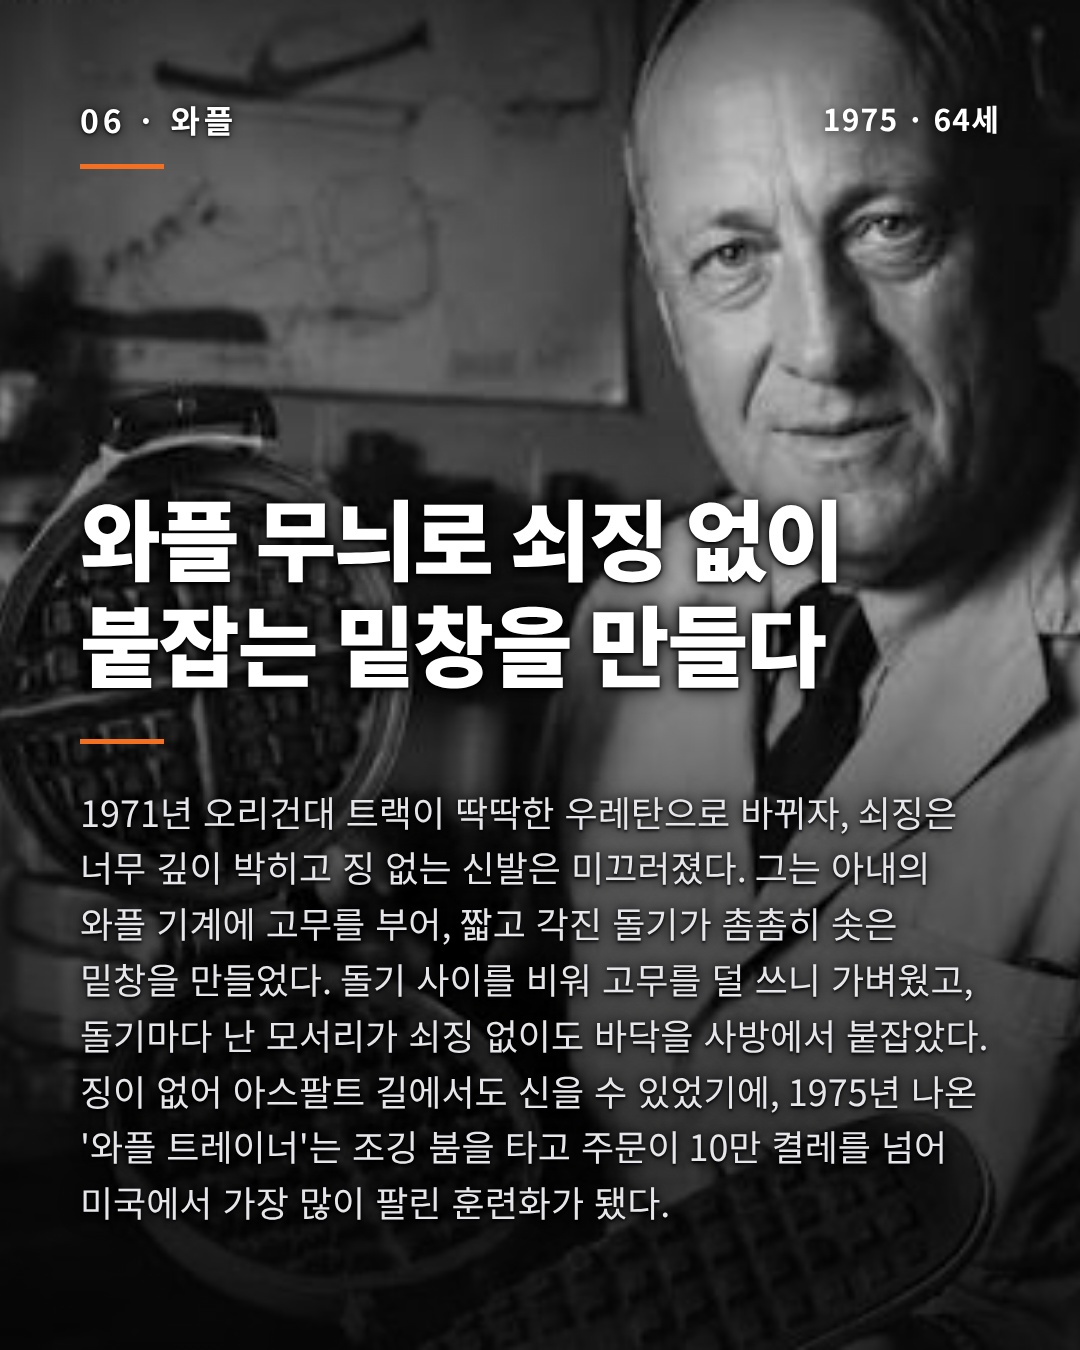
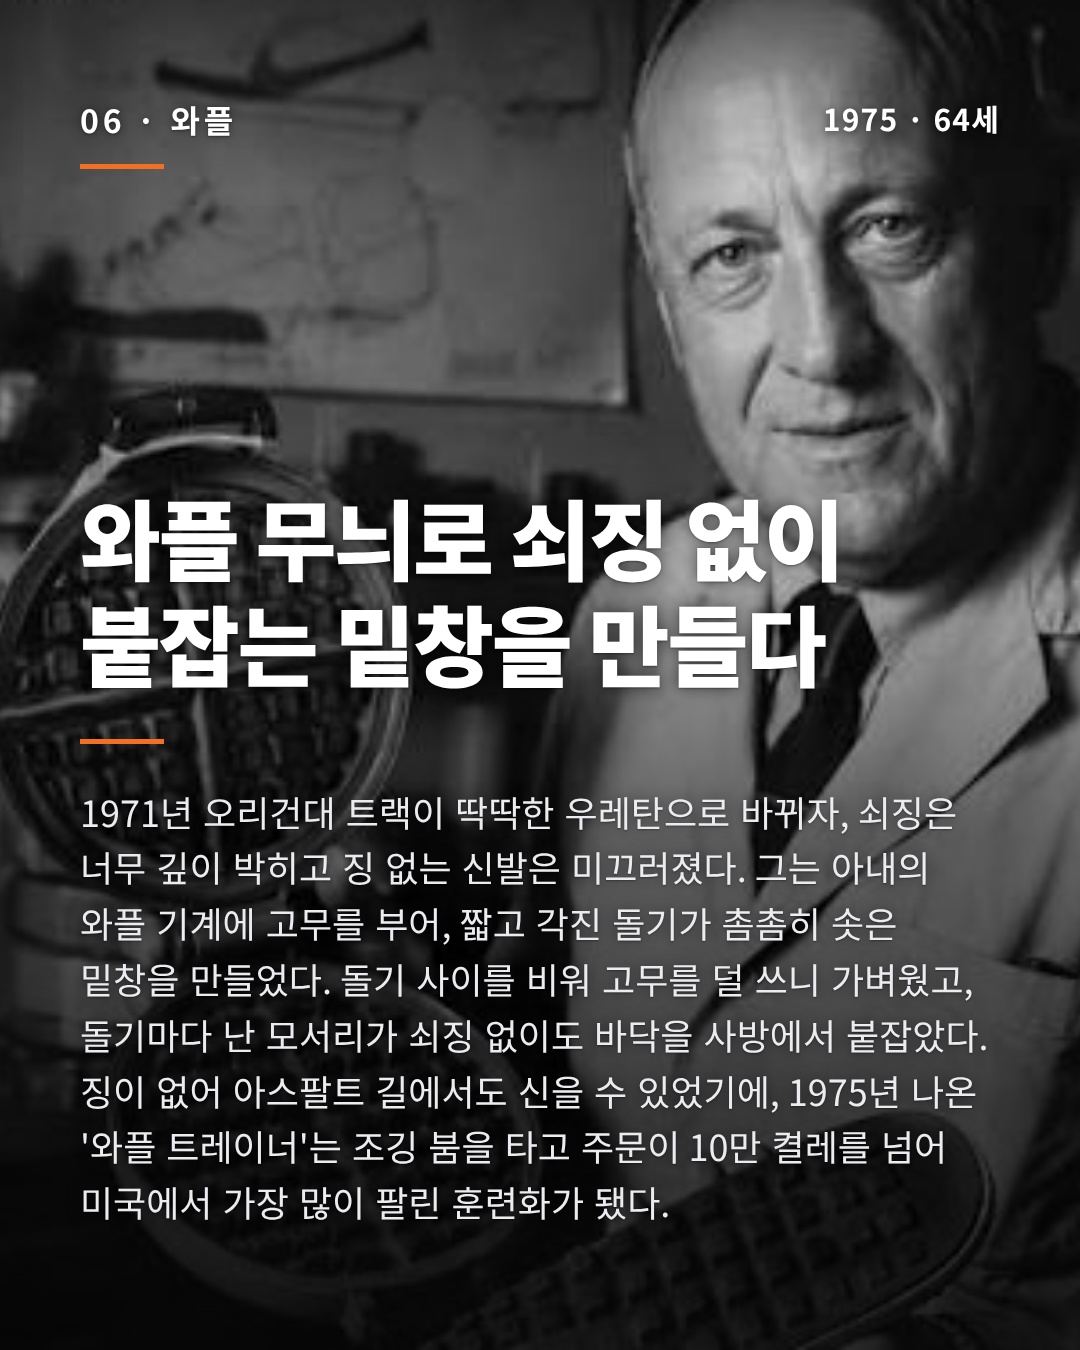
글자 그림자 얇게, 본문·보조 글자 밝기 통일, #05 재렌더
Claude-Session: https://claude.ai/code/session_0174UmVuwJmyLhAWFRzq7SfG

diff --git a/render.py b/render.py
@@ -21,8 +21,8 @@ html,body{width:1080px;height:1350px;background:#000;color:#fff;
 .ph span{position:absolute;top:250px;font-size:30px;letter-spacing:.3em;color:#3a3a42;font-weight:700;
  border:3px dashed #2c2c33;padding:22px 40px;border-radius:14px}
 /* 사용자 규칙(11/8): 사진을 가리는 진한 검정은 금지. #02 마이크로소프트 수준의 옅은 그라데이션 + 글자 그림자만 */
-.shade.on~.txt h1,.shade.on~.txt p,.shade.on~.txt .pt,.shade.on~.txt .q,.shade.on~.txt .st,.shade.on~.txt .who,.shade.on~.txt .handle,.shade.on~.txt .c,.shade.on~.txt .u{text-shadow:0 0 22px rgba(0,0,0,.95),0 0 8px rgba(0,0,0,.85),0 2px 3px rgba(0,0,0,.9)}
-.shade.on~.idx{text-shadow:0 0 12px rgba(0,0,0,.9),0 1px 3px rgba(0,0,0,.9)}
+.shade.on~.txt h1,.shade.on~.txt p,.shade.on~.txt .pt,.shade.on~.txt .q,.shade.on~.txt .st,.shade.on~.txt .who,.shade.on~.txt .handle,.shade.on~.txt .c,.shade.on~.txt .u{text-shadow:0 0 16px rgba(0,0,0,.55),0 1px 2px rgba(0,0,0,.35)}
+.shade.on~.idx{text-shadow:0 0 12px rgba(0,0,0,.55),0 1px 2px rgba(0,0,0,.35)}
 .shade{position:absolute;inset:0;
  background:linear-gradient(180deg,rgba(0,0,0,.45) 0%,rgba(0,0,0,0) 16%,rgba(0,0,0,0) 38%,rgba(0,0,0,.82) 62%,#000 82%)}
 .shade.on{background:linear-gradient(180deg,rgba(0,0,0,.4) 0%,rgba(0,0,0,.05) 14%,rgba(0,0,0,.08) 42%,rgba(0,0,0,.5) 62%,rgba(0,0,0,.68) 82%,rgba(0,0,0,.72) 100%)}
@@ -36,19 +36,19 @@ html,body{width:1080px;height:1350px;background:#000;color:#fff;
 h1{font-size:88px;line-height:1.2;font-weight:900;letter-spacing:-.025em;white-space:pre-line}
 .cover h1{font-size:90px}
 .dv{width:84px;height:5px;background:var(--a);margin:44px 0 40px}
-p{font-size:36px;line-height:1.55;color:#e6e6ea;font-weight:400}
+p{font-size:36px;line-height:1.55;color:#ececf0;font-weight:400}
 .who{font-size:42px;font-weight:700;color:#fff;margin-bottom:6px;letter-spacing:-.01em}
 .handle{font-size:30px;letter-spacing:.28em;font-weight:700;margin-bottom:34px;color:#fff}
 .stats{margin-top:8px}
 .st{margin-bottom:34px}
-.st .c{font-size:32px;color:#cfcfd6;margin-bottom:6px}
+.st .c{font-size:32px;color:#ececf0;margin-bottom:6px}
 .st .n{font-size:150px;font-weight:900;line-height:1;letter-spacing:-.03em}
-.st .u{font-size:44px;font-weight:500;margin-left:14px;color:#cfcfd6}
+.st .u{font-size:44px;font-weight:500;margin-left:14px;color:#ececf0}
 .st .ln{height:4px;background:#fff;opacity:.85;margin:18px 0 0}
-.pt{font-size:36px;line-height:1.55;color:#e6e6ea;padding-left:30px;position:relative;margin-bottom:6px}
+.pt{font-size:36px;line-height:1.55;color:#ececf0;padding-left:30px;position:relative;margin-bottom:6px}
 .pt:before{content:"·";position:absolute;left:4px}
 .q{font-size:44px;font-weight:900;margin-top:44px}
-.qa{font-size:32px;color:#cfcfd6;margin-top:10px}
+.qa{font-size:32px;color:#ececf0;margin-top:10px}
 .ft{margin-top:56px;font-size:28px;letter-spacing:.24em;font-weight:700}
 .stk{position:absolute;filter:drop-shadow(0 8px 18px rgba(0,0,0,.55))}
 .btn{display:inline-block;margin-top:24px;background:#fff;color:#000;font-size:34px;font-weight:700;
